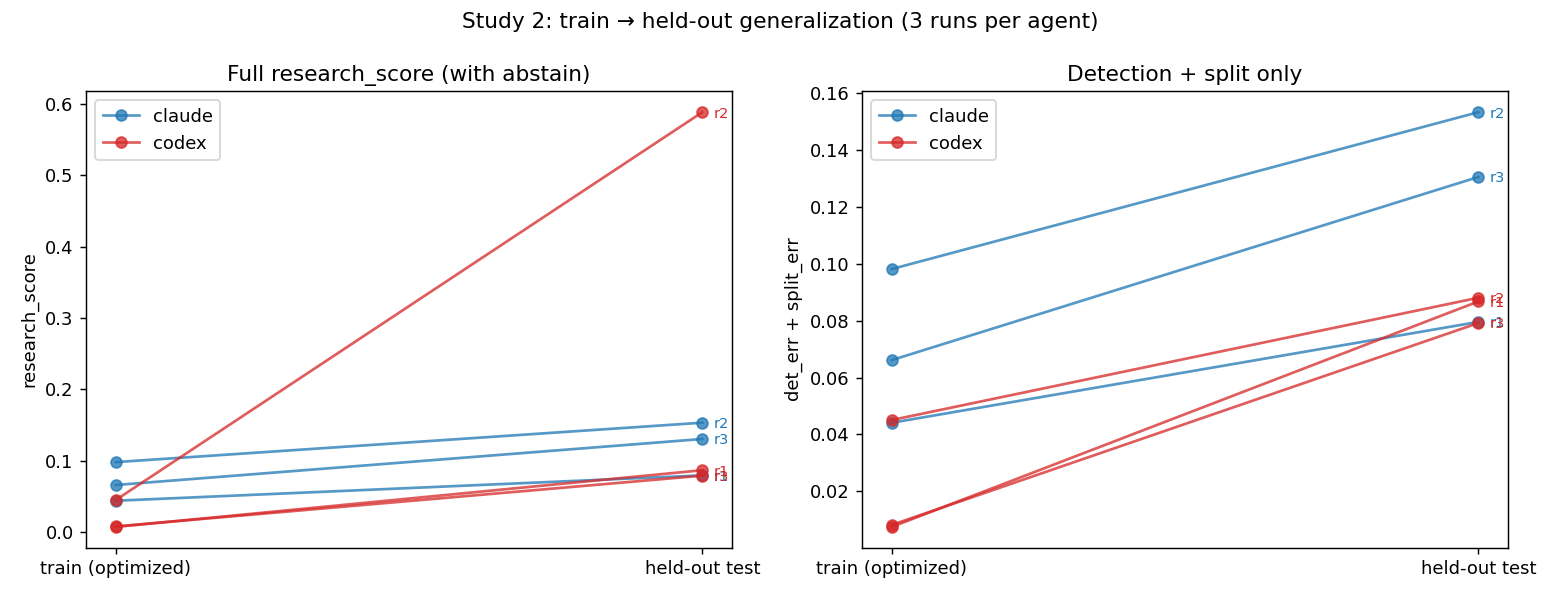
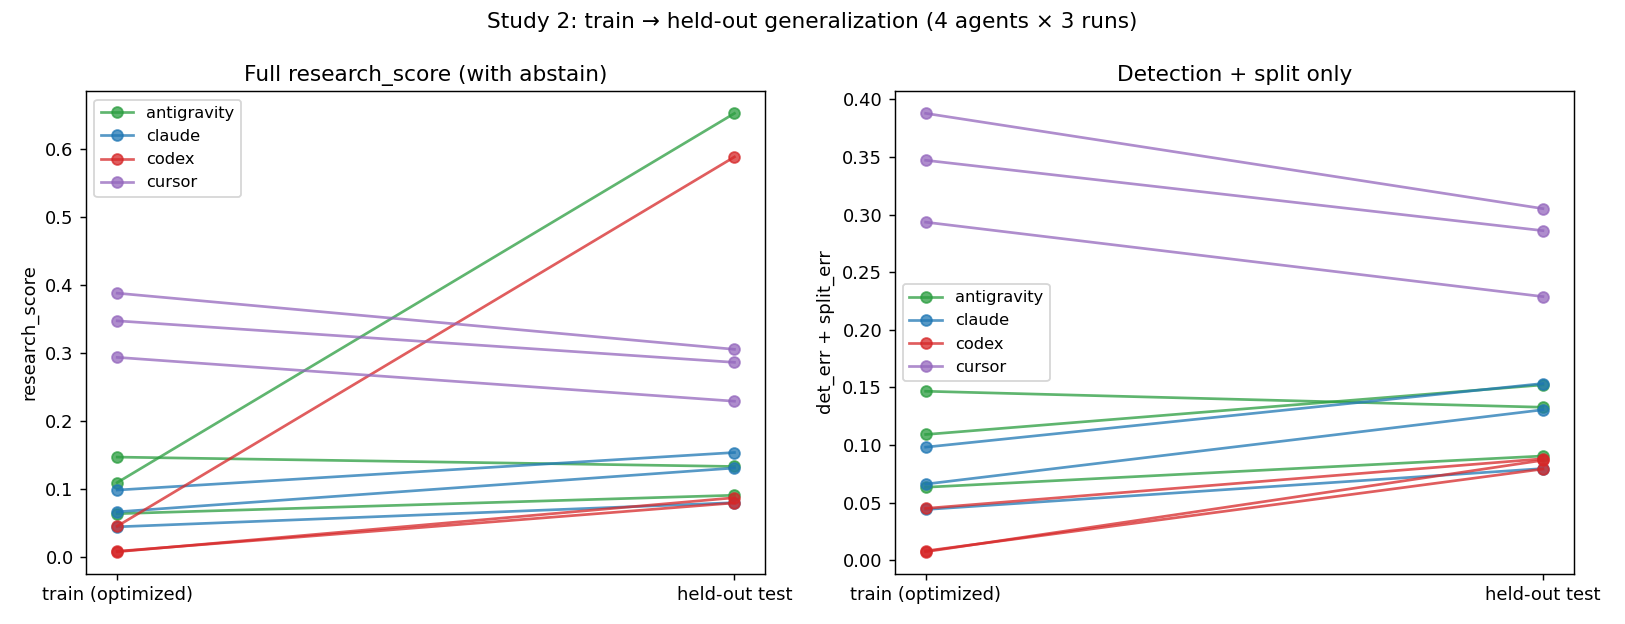
Merge community arms (Antigravity, Cursor) + 4-arm analysis, figure, collect_run final-state fix

diff --git a/RESULTS.md b/RESULTS.md
@@ -169,3 +169,45 @@ for 095008). With the fix the dataset is fully internally consistent — oracle
 floor exactly 0.0 on both splits (dataset v1.1; studies ran on v1). An
 unplanned dividend of the loop: **autonomous agents double as annotation
 auditors** — their "unwinnable" lists pointed straight at real label noise.
+
+
+---
+
+# Study 2 addendum — community arms: Antigravity & Cursor (2026-07-03)
+
+Contributed by a collaborator following `ANTIGRAVITY.md` on a separate machine
+(same frozen v1 dataset, hash-verified; clone isolation confirmed via bundles —
+every run starts from the single snapshot commit; zero hardcoded ids in any
+final solution).
+
+| run | train | test | test det+split | abstain miss | exps |
+|---|---:|---:|---:|---:|---:|
+| antigravity-r1 | 0.1467 | 0.1329 | 0.1328 | – | 12 |
+| antigravity-r2 | 0.1092 | 0.6522 | 0.1522 | 0.5 | 12 |
+| antigravity-r3 | 0.0634 | 0.0906 | 0.0905 | – | 16 |
+| cursor-r1 | 0.3878 | 0.3052 | 0.3051 | – | 5 |
+| cursor-r2 | 0.2933 | 0.2289 | 0.2288 | – | 9 |
+| cursor-r3 | 0.3470 | 0.2860 | 0.2860 | – | 7 |
+
+**Four-arm held-out det+split:** Codex 0.085±0.004 < Claude 0.121±0.031 ≈
+Antigravity (Gemini 3.1 Pro high) 0.125±0.026 < Cursor (Auto) 0.273±0.032.
+
+Observations:
+1. **Cursor UNDERFITS** — the only arm whose test scores beat its train scores
+   (negative gap): 5–9 experiments, train never below 0.29. Auto mode
+   (unpinned model selection) + early stopping → under-optimization. Treated as
+   an exploratory arm (model/effort not pinned → confounded).
+2. **Antigravity ≈ Claude** on held-out core, with a Codex-style abstain miss
+   in r2 (0.5). Its profile is intermediate: moderate train grinding, moderate
+   transfer.
+3. **The cross-arm ranking on held-out core follows optimization effort**
+   (experiments spent): the arms that optimized hardest transferred best;
+   the overfit margin was wasted, not harmful — consistent with Study 2's main
+   finding.
+4. Caveats: different machine (wall-clock not comparable), Gemini 3.1 Pro
+   (not 3.0 as pre-registered), Cursor Auto = unpinned. Sample-efficiency
+   (per-experiment) comparisons remain valid.
+5. Artifact gap: antigravity-r3's bundle preserved only the stub (agent never
+   committed; collection didn't capture the working tree). Holdout score is
+   valid (scored live). `collect_run.sh` now auto-commits final state as
+   collector.
